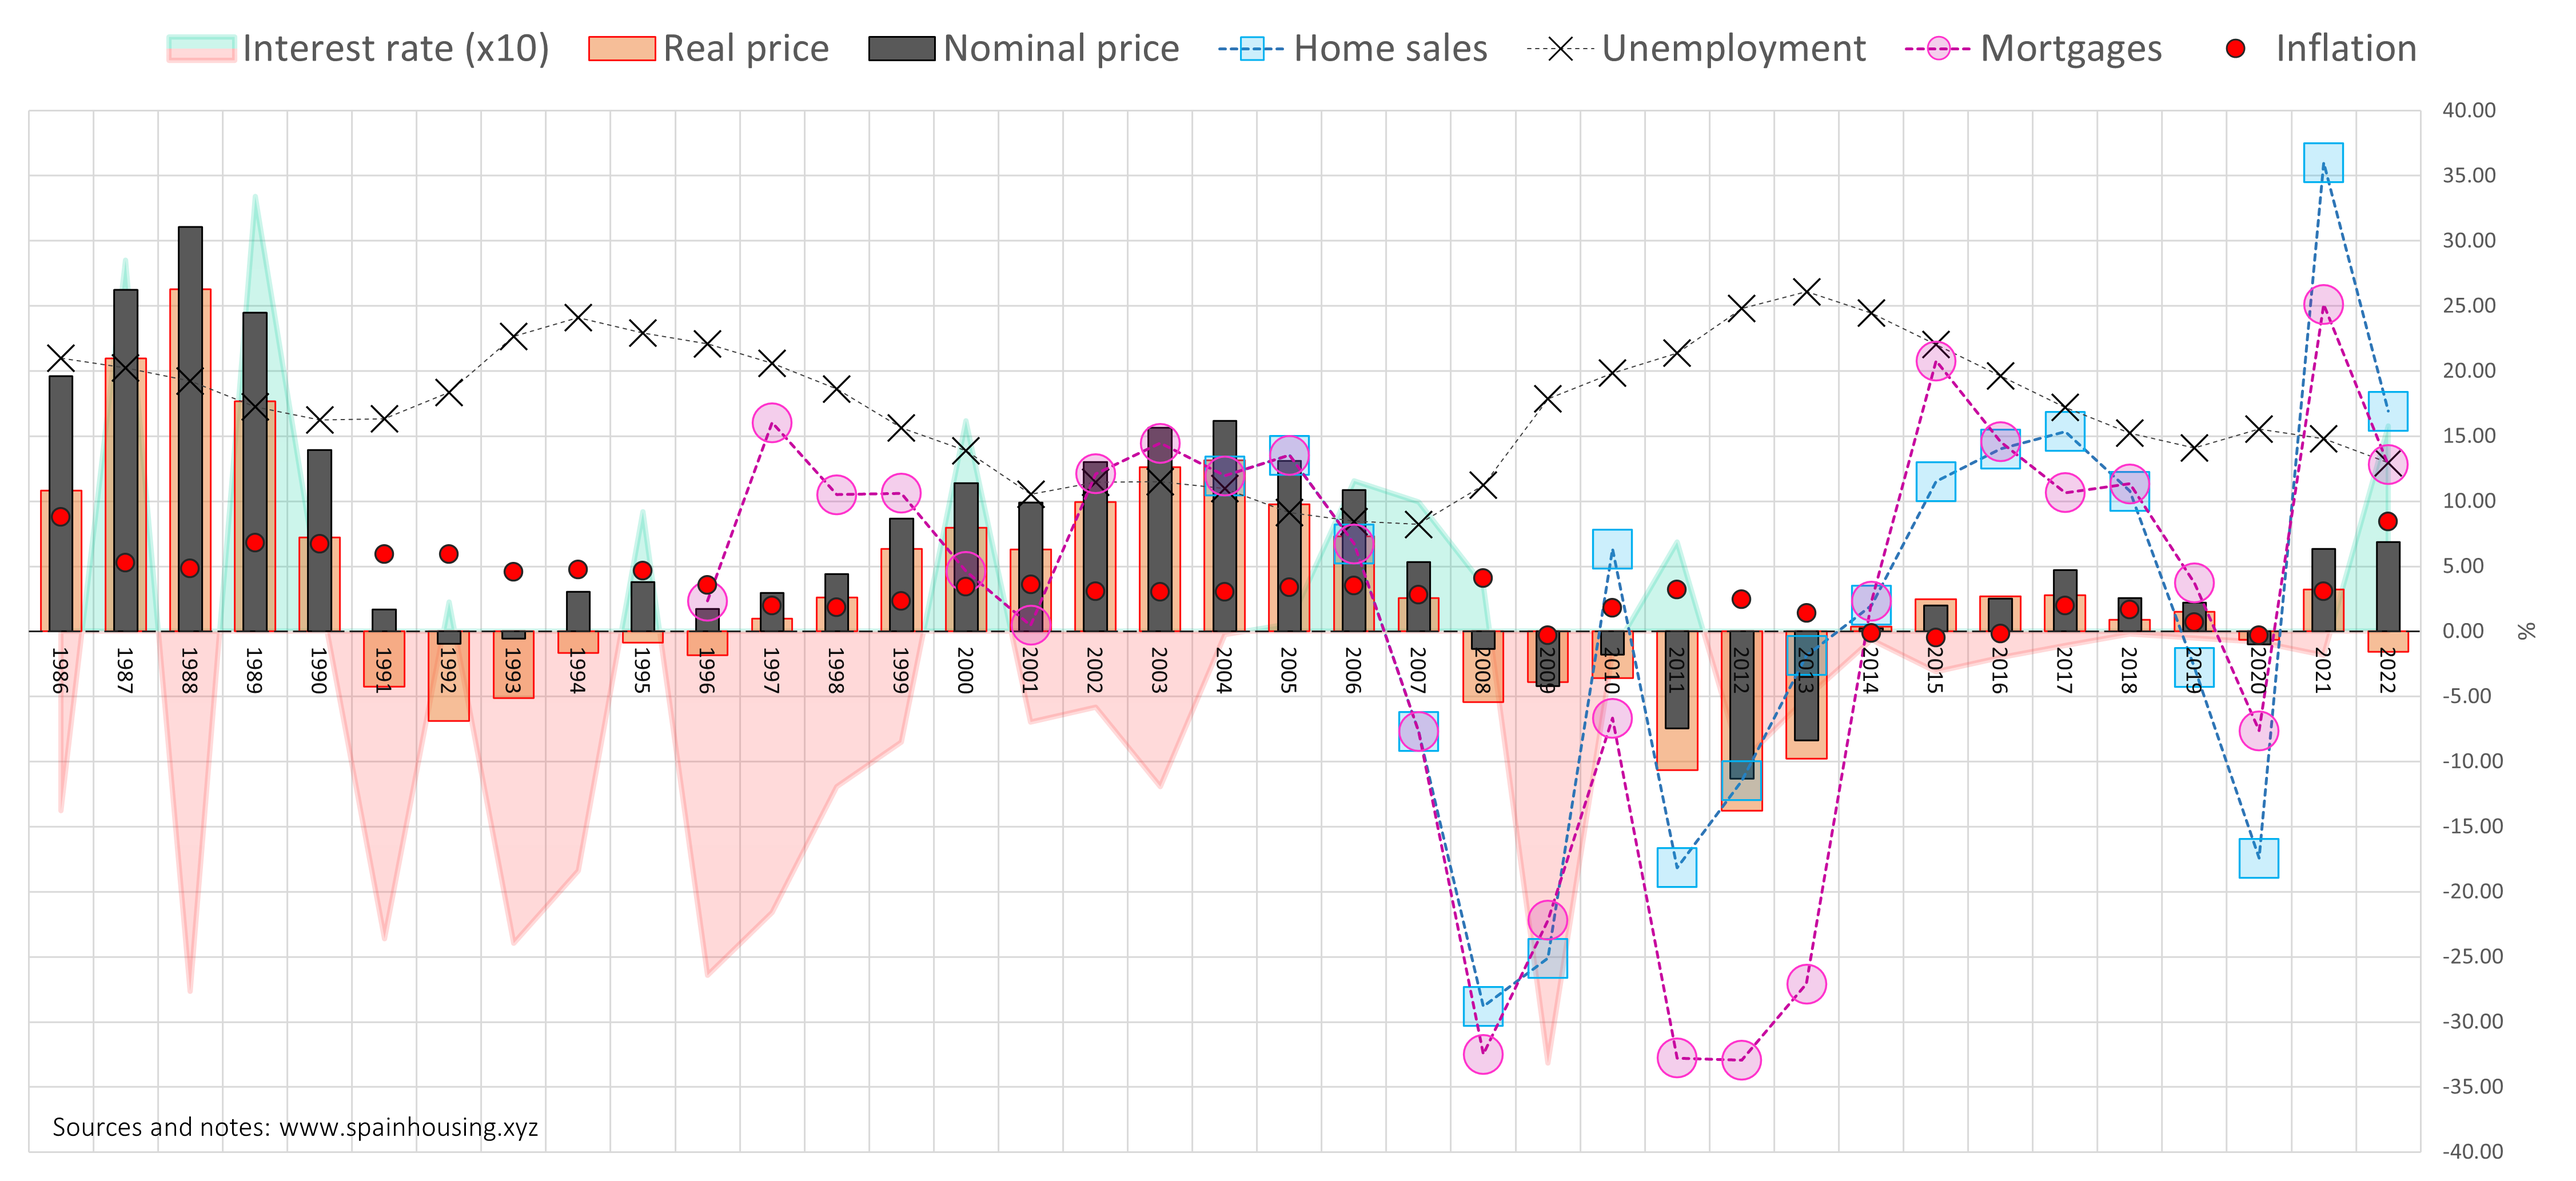
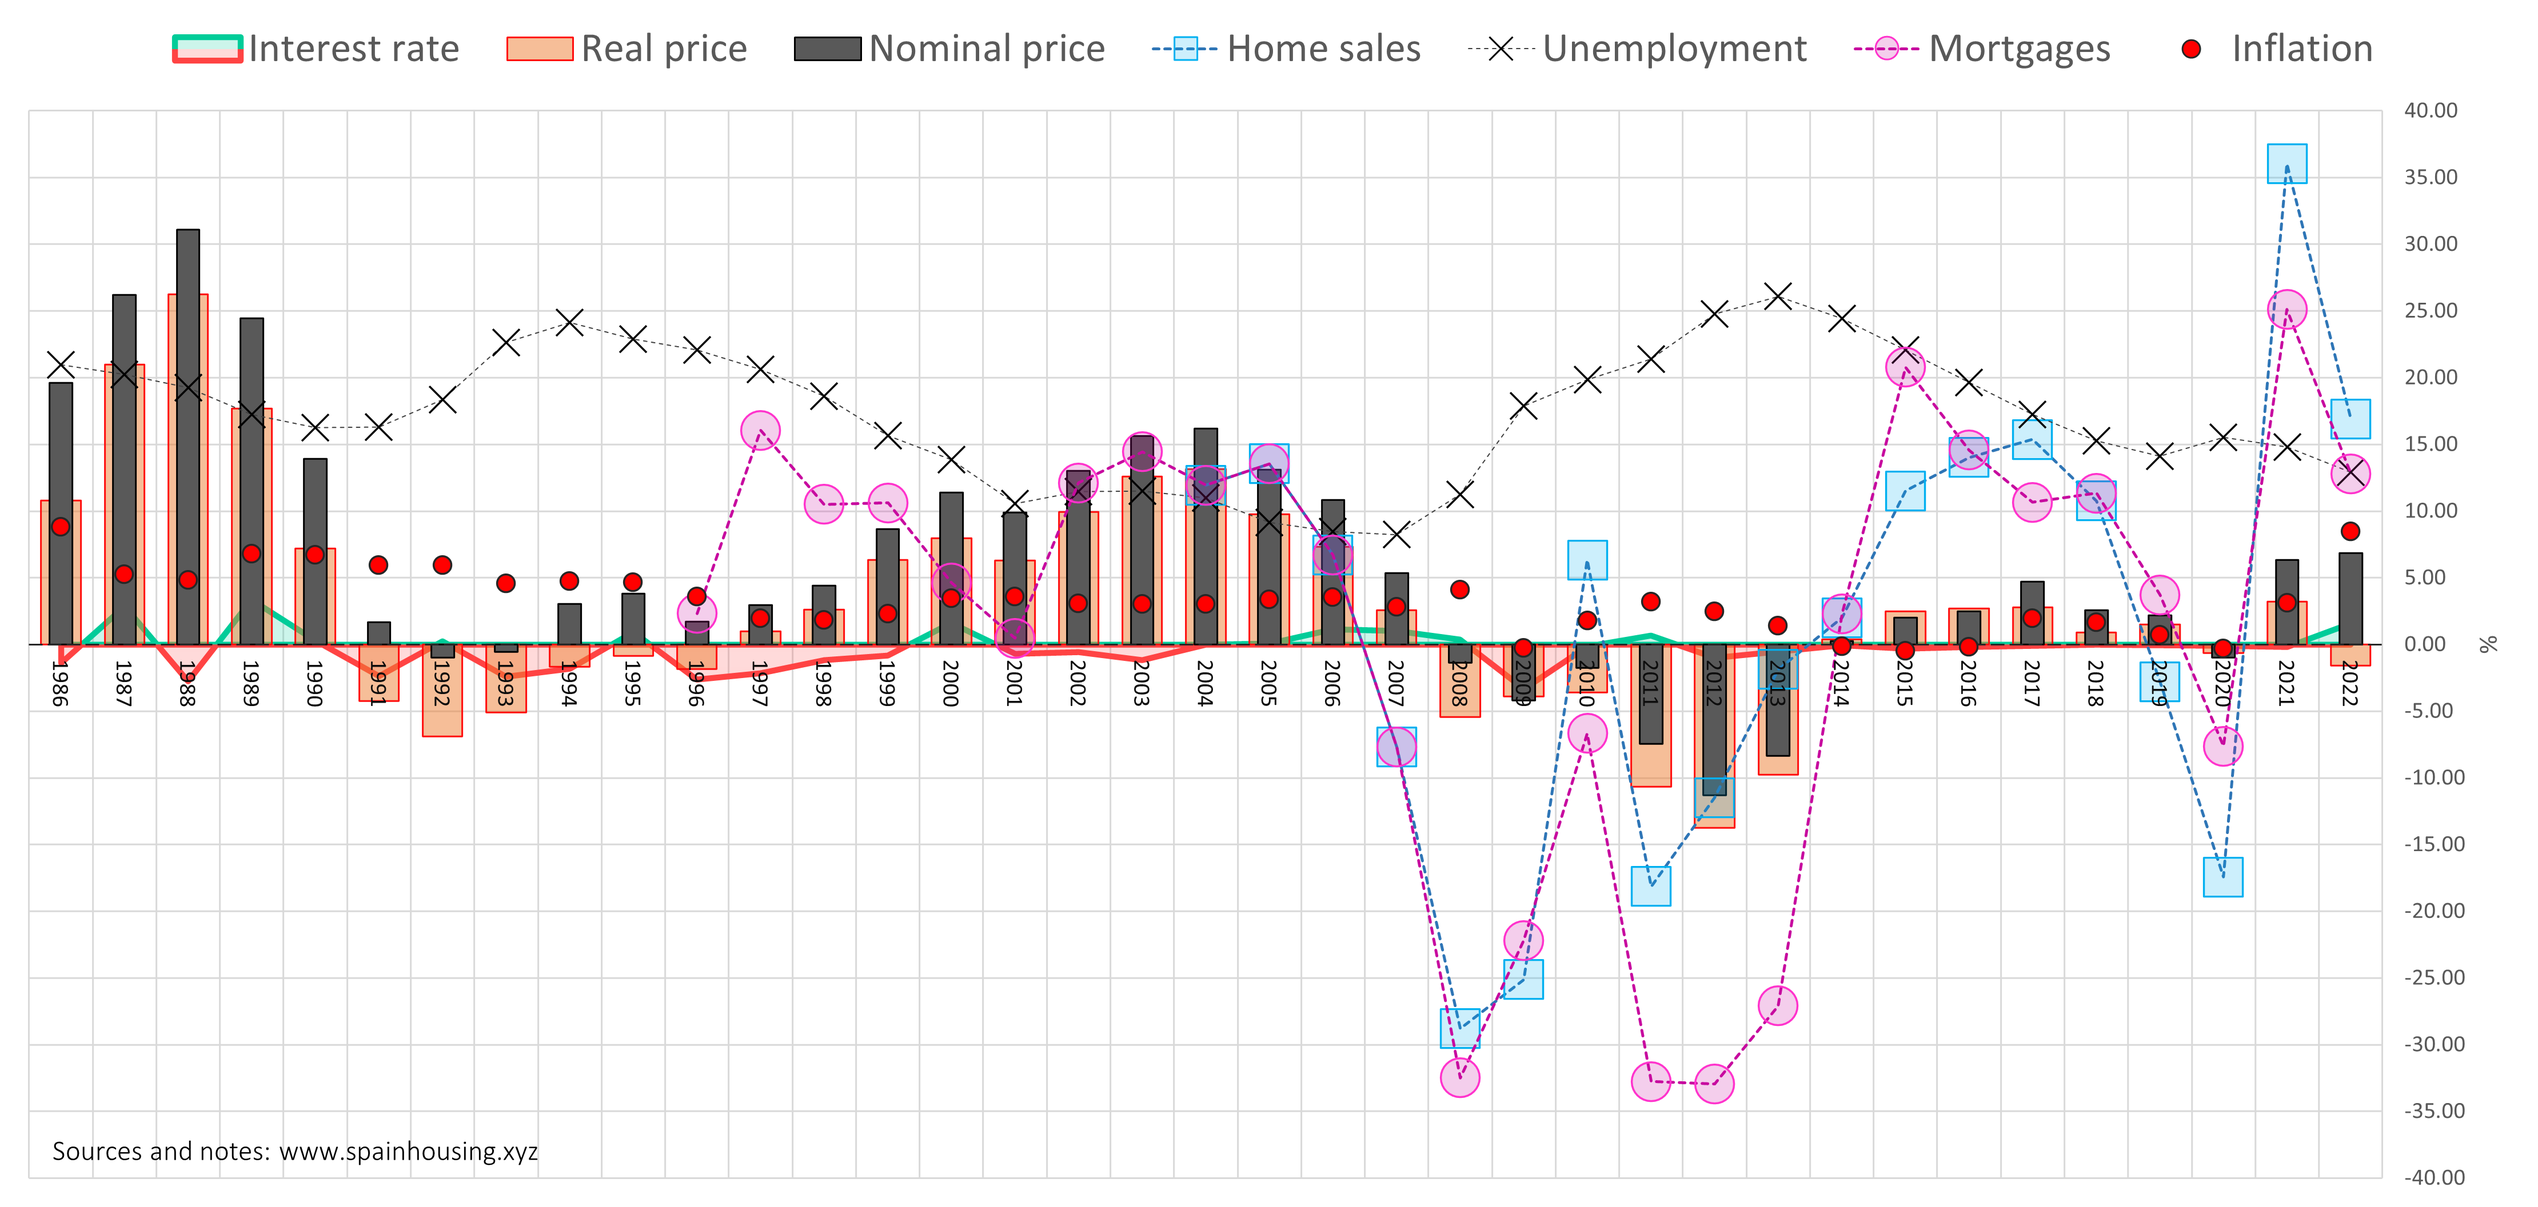
upload_chart

diff --git a/pages/posts/multivariate.md b/pages/posts/multivariate.md
@@ -20,10 +20,8 @@ All variables are represented as a percentage. Some clarifications to facilitate
 
 - **Unemployment, Inflation**: average rate for the given year.
 - **Real price**[^1]: percentage difference between the nominal and the inflation rate.
-- **Mortgages, Home sales, Nominal price**: percentage of annual change compared to the previous year.
-- **Interest rate (_Mibor/Euribor_)**: percentage of annual change compared to the previous year. Two observations:
-    - The value has been multiplied by a factor of 10 for easier visualization (green = tight monetary policy; red = loose monetary policy).
-    - Until 2001, the reference interest rate is the _Mibor_, and from 2002 onwards is the _Euribor_.
+- **Mortgages, Home sales, Nominal price, Interest rate**: percentage of annual change compared to the previous year.
+  - _About the interest rate_: until 2001, the reference interest rate is the _Mibor_, and from 2002 onwards is the _Euribor_.
 
 # Data sources
 

diff --git a/pages/posts/credit.md b/pages/posts/credit.md
@@ -42,7 +42,8 @@ Credit correlates positively with the evolution of housing prices. Some observat
 [![Politica monetaria y precio vivienda](/images/pricemoneypolicy.png)](/images/pricemoneypolicy.png)
 
 - **Nominal price and Interest rate**: percentage of annual change compared to the previous year.
-  - _About the interest rate_: until 2001, the reference interest rate is the _Mibor_, and from 2002 onwards is the _Euribor_. The interest rate value has been multiplied by a factor of 10 for easier visualization. Blue = tight monetary policy; orange = loose monetary policy.
+  - **Left axis (bars)**: interest rate. Until 2001, the reference rate is the _Mibor_, from 2002 onwards is the _Euribor_.
+  - **Right axis (line)**: nominal price.
 
 [![Tipo de hipotecas firmadas](/images/typemortgage.png)](/images/typemortgage.png)
 
